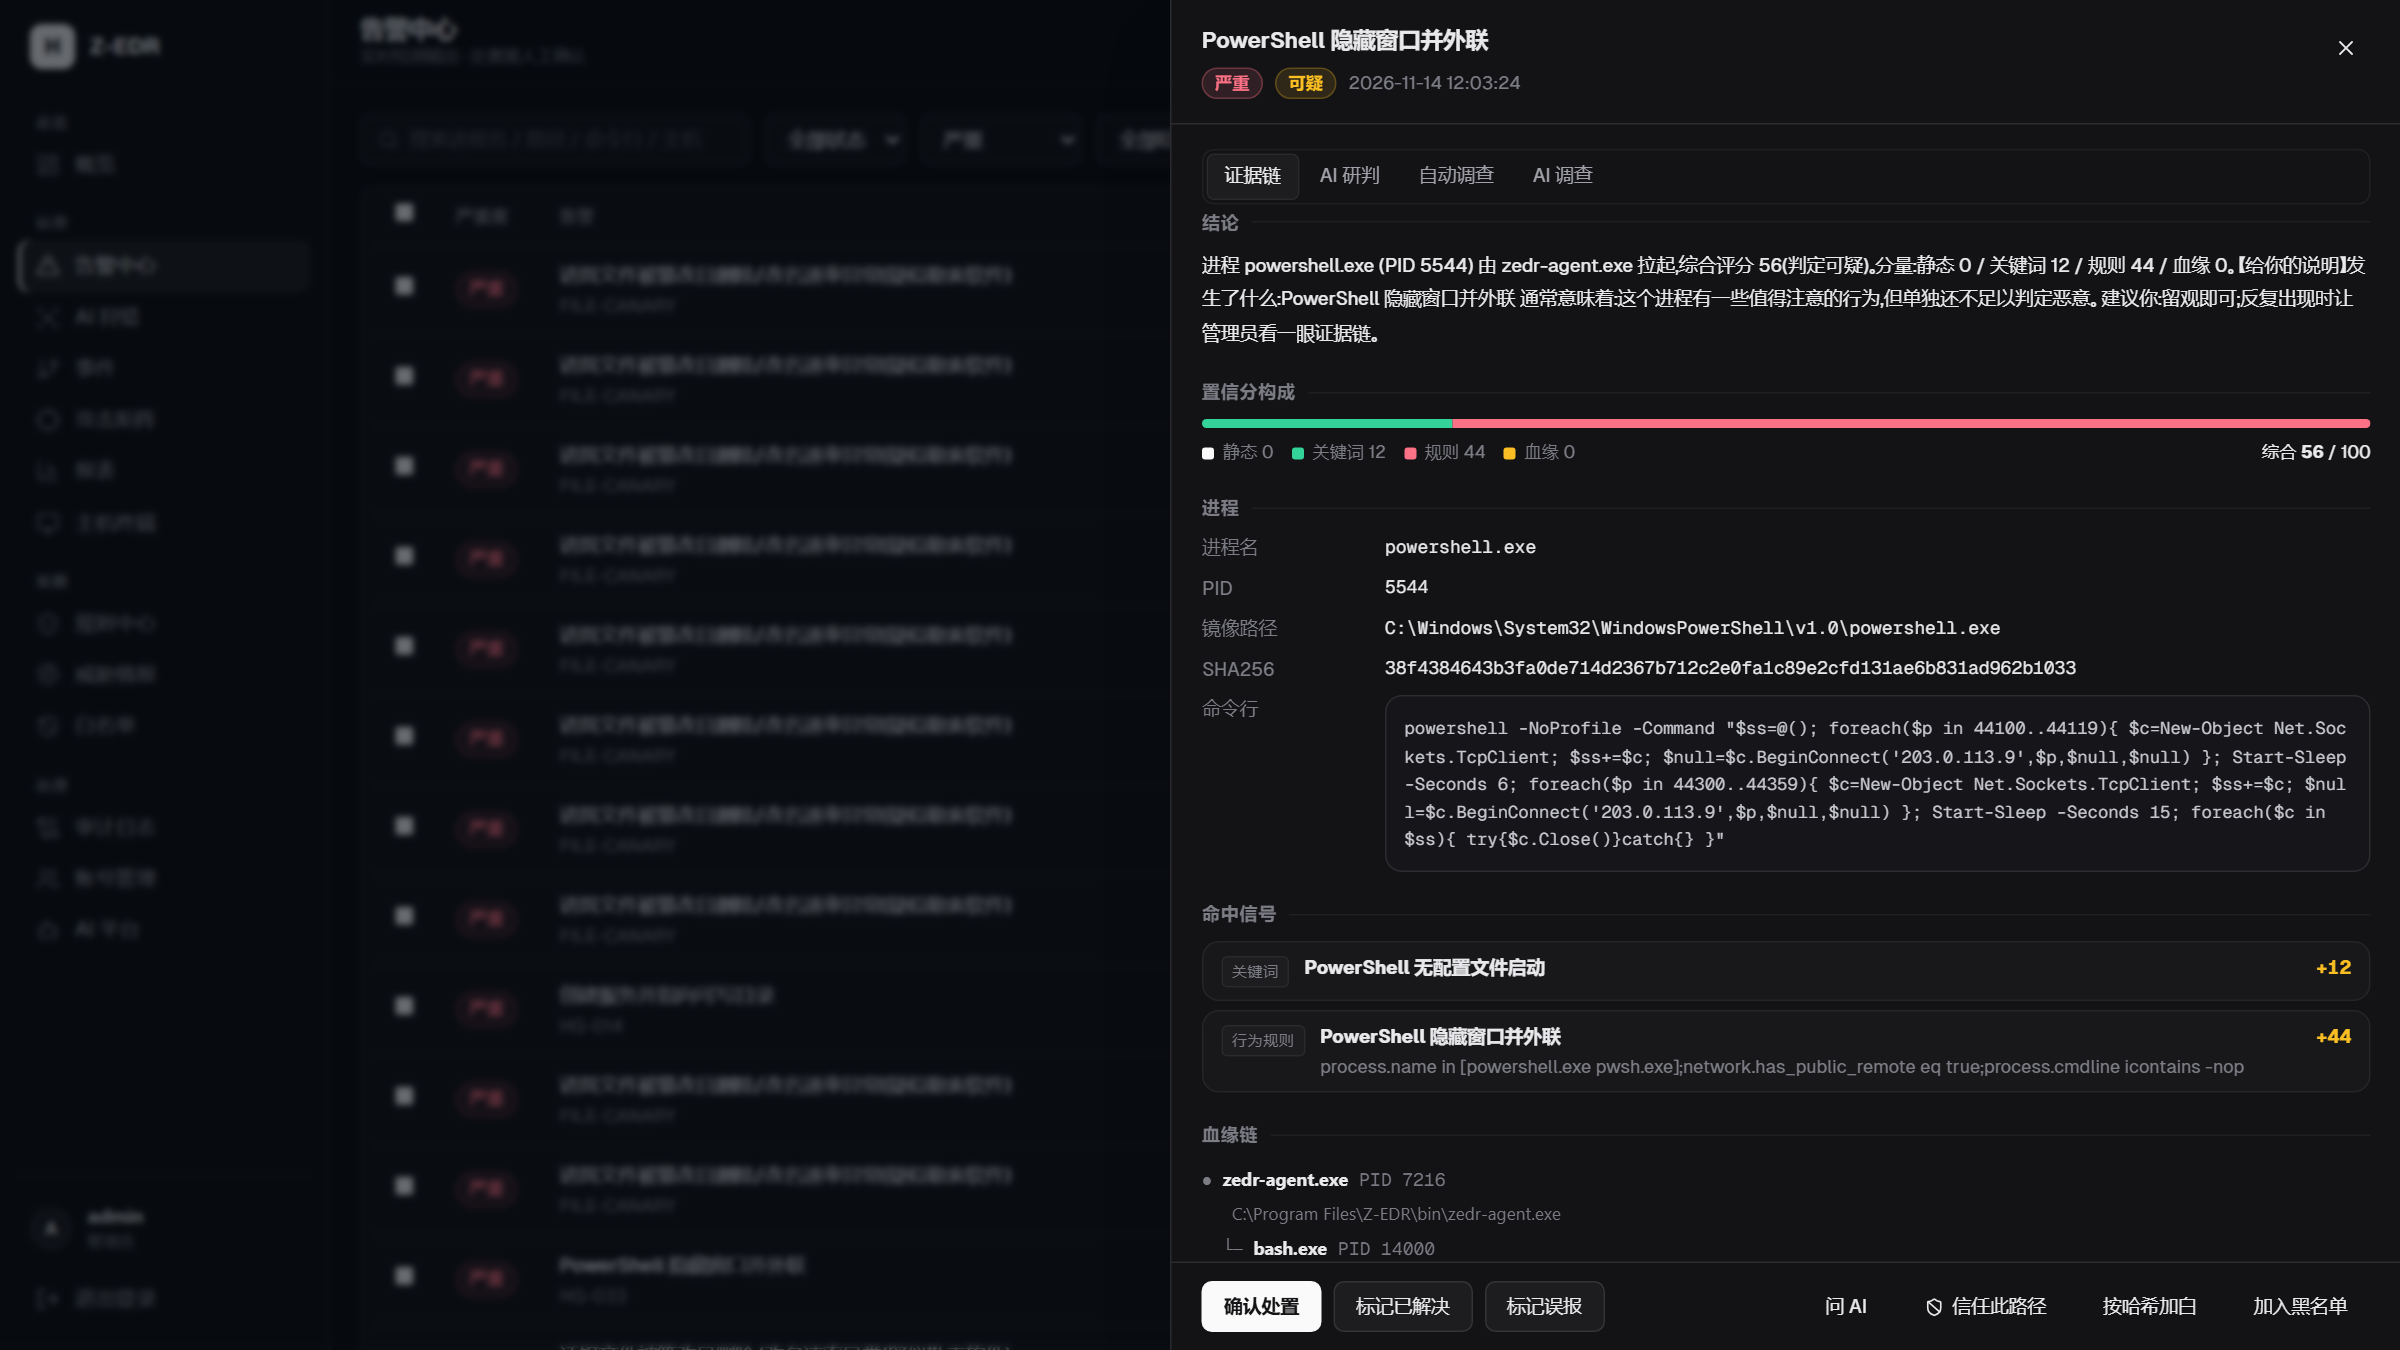
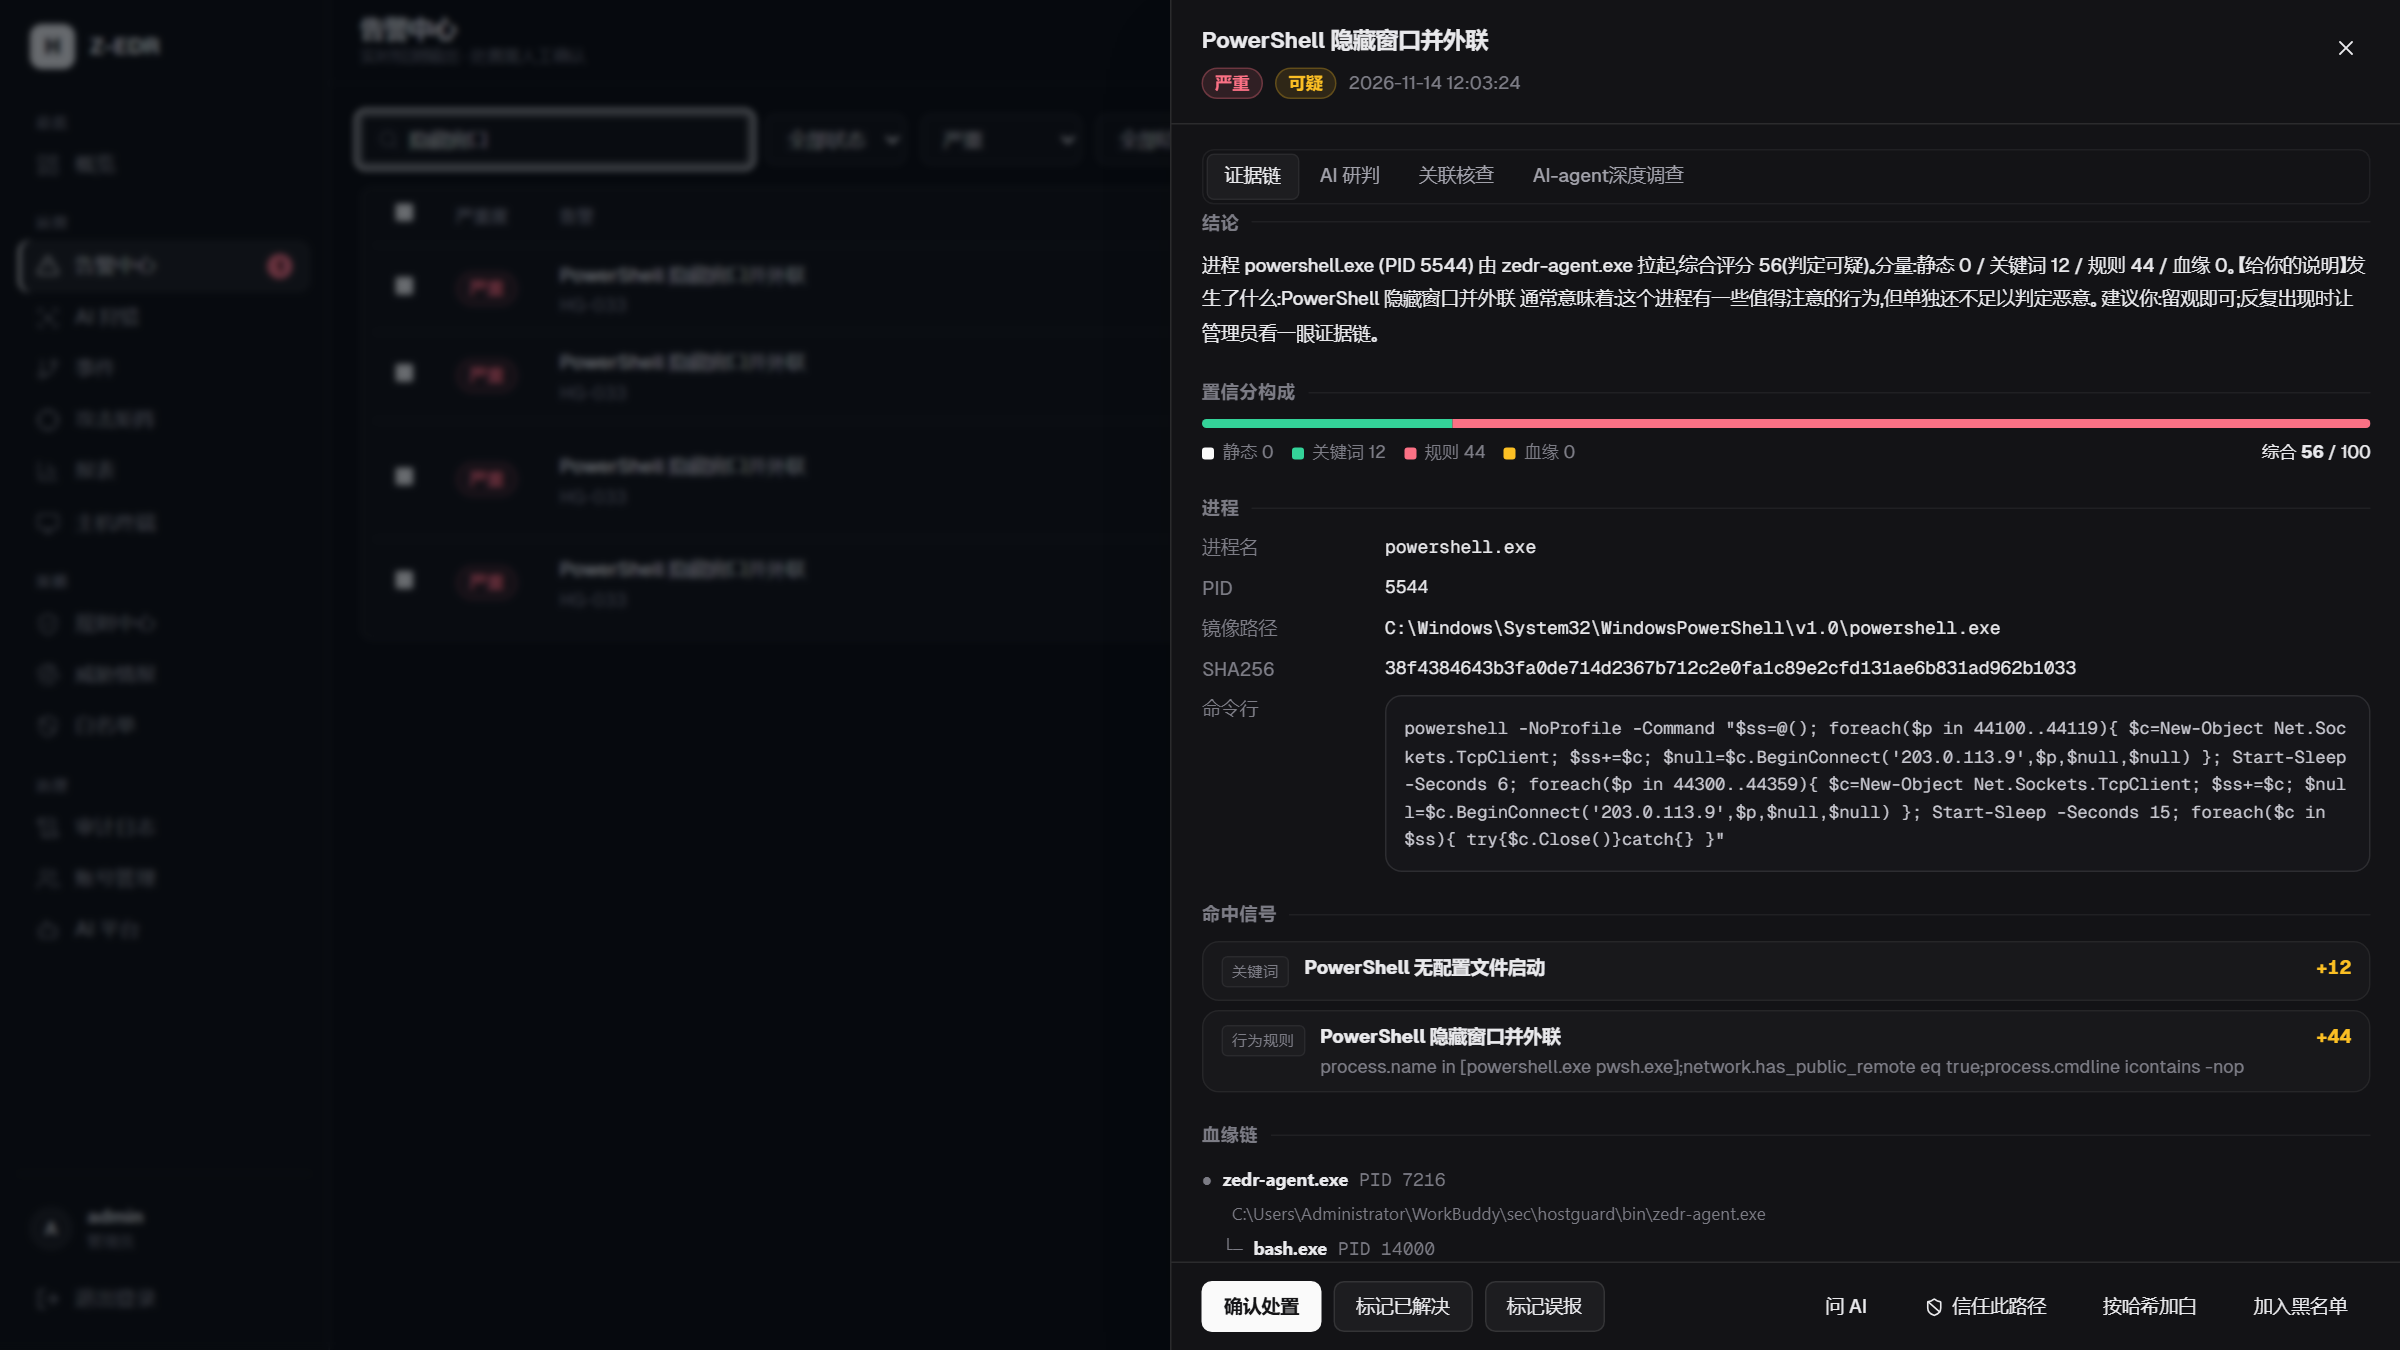
docs(readme): 公开前宣传面 v2——脱敏截图/hero/演示动图/对比节/AGPL 徽章
资产（assets/）：
- 9 张控制台截图全量替换为脱敏版：主机名→WIN-DEMO-01、主机指纹/CPU 型号/
  Ark 端点/Key 后缀→演示值（与脱敏重截会话共享替换对，跨图一致）
- 新增 console-alert-ai.png：AI 研判判定视图（72% 置信、E1/E2 引用、
  HUNT/MONITOR/TERMINATE 建议处置均标需人工确认）
- 新增 hero.png：单板式首屏横幅（盾徽字标 + 定位语 + 五层流水线读数，
  与登录页同母题：44px 仪器网格 + mono）
- 新增 demo-alert-ai.gif（1.5MB）：告警→证据链→AI 研判 7 秒演示动图，
  录制全程 MutationObserver 自动脱敏

README（双语）：
- 首屏嵌 hero.png；徽章补 AGPL-3.0
- 图廊重排：证据链+AI 研判成对置顶，嵌演示动图
- 新增「How Z-EDR compares / 与同类项目的对比」节：与 Wazuh/Falco/
  Velociraptor 的功能事实对比（基于各项目公开文档与源码形态，2026-11，
  不放评分）
- 设计原则节新增「适合谁/不适合谁」
- 接口节死链修复：内部文档指引 → .env.example
- zh-CN 许可证节同步 AGPL（023a31f 只改了英文版）

工具链备注：截图 playwright-core+Edge headless（真机截取，无 AI 生成），
动图 playwright recordVideo + 系统 ffmpeg 裁剪转码，视觉资产 HTML→PNG。

diff --git a/README.md b/README.md
@@ -5,8 +5,13 @@
 [![Go](https://img.shields.io/badge/Go-1.22%2B-00ADD8?logo=go&logoColor=white)](https://go.dev)
 [![Platform](https://img.shields.io/badge/Platform-Windows%2010%20%2F%20Server%202016%2B-0078D6?logo=windows&logoColor=white)](https://www.microsoft.com/windows-server)
 [![Version](https://img.shields.io/badge/version-0.9.14-informational)](#)
+[![License](https://img.shields.io/badge/License-AGPL_3.0--only-blue.svg)](LICENSE)
 
 **English** | [中文](README.zh-CN.md)
+
+<p align="center">
+  <img src="assets/hero.png" alt="Z-EDR — detection-first, user-mode EDR; five-layer detection pipeline readout" width="100%">
+</p>
 
 Z-EDR records process, file-drop, persistence, network and event-log telemetry on
 Windows endpoints, scores it with a five-layer detection pipeline mapped to
@@ -28,15 +33,21 @@ injection, and no inline blocking. Z-EDR is an *EDR* (detect & respond), not an
 
 <p align="center">
   <img src="assets/console-alert-detail.png" alt="Alert evidence chain — score composition, command line, matched signals, lineage" width="49%">
-  <img src="assets/console-attack-matrix.png" alt="ATT&CK matrix — hit counts vs rule coverage" width="49%">
+  <img src="assets/console-alert-ai.png" alt="AI triage verdict — confidence, per-claim evidence citations, recommended actions" width="49%">
 </p>
-<p align="center"><sub>Every alert carries an explainable evidence chain — left · ATT&CK coverage matrix (hits vs. static coverage) — right</sub></p>
+<p align="center"><sub>Evidence chain with score composition — left · AI verdict: every claim cites its evidence id (E1/E2), every action waits for human confirmation — right</sub></p>
 
 <p align="center">
+  <img src="assets/console-attack-matrix.png" alt="ATT&CK matrix — hit counts vs rule coverage" width="49%">
   <img src="assets/console-incidents.png" alt="Incidents — alerts clustered into attack chains with status machine" width="49%">
-  <img src="assets/console-rules.png" alt="Rules center — 44 built-in rules, severity / score / ATT&CK / shadow mode" width="49%">
 </p>
-<p align="center"><sub>Alerts clustered into incident chains with a disposition state machine — left · rules center with shadow mode &amp; one-click promotion — right</sub></p>
+<p align="center"><sub>ATT&CK coverage matrix (hits vs. static coverage) — left · alerts clustered into incident chains with a disposition state machine — right</sub></p>
+
+<p align="center">
+  <img src="assets/console-rules.png" alt="Rules center — 44 built-in rules, severity / score / ATT&CK / shadow mode" width="49%">
+  <img src="assets/console-alerts.png" alt="Alert center — severity filters, scores, disposition" width="49%">
+</p>
+<p align="center"><sub>Rules center with shadow mode &amp; one-click promotion — left · alert center with severity / verdict / status filters — right</sub></p>
 
 <p align="center">
   <img src="assets/console-hosts.png" alt="Host fleet — online state, CPU, memory, pending alerts, heartbeat" width="49%">
@@ -51,15 +62,15 @@ injection, and no inline blocking. Z-EDR is an *EDR* (detect & respond), not an
 <p align="center"><sub>Host detail: services / tasks / autoruns / live files / recon / baseline / accounts / changes — left · AI platform: one provider, per-task slots, budget & cache hot-reload — right</sub></p>
 
 <p align="center">
-  <img src="assets/console-alerts.png" alt="Alert center — severity filters, scores, disposition" width="49%">
   <img src="assets/console-hunt.png" alt="AI hunting — natural language to a safe, reviewable DSL" width="49%">
+  <img src="assets/console-login.png" alt="Login — split screen with the five-layer pipeline story" width="49%">
 </p>
-<p align="center"><sub>Alert center with severity / verdict / status filters — left · natural-language hunting compiled to a safe DSL (the model never sees SQL) — right</sub></p>
+<p align="center"><sub>Natural-language hunting compiled to a safe DSL (the model never sees SQL) — left · console entry, doubling as a five-layer pipeline tour — right</sub></p>
 
 <p align="center">
-  <img src="assets/console-login.png" alt="Login — split screen with the five-layer pipeline story" width="75%">
+  <img src="assets/demo-alert-ai.gif" alt="From evidence chain to AI verdict — citations, confidence, recommended actions" width="62%">
 </p>
-<p align="center"><sub>Console entry: the login page doubles as a tour of the five-layer detection pipeline</sub></p>
+<p align="center"><sub>One alert, end to end: open the evidence chain, request an AI verdict — every claim cites its evidence, every action waits for a human</sub></p>
 
 ## Highlights
 
@@ -102,6 +113,12 @@ injection, and no inline blocking. Z-EDR is an *EDR* (detect & respond), not an
 
 ## Design principles
 
+**Who Z-EDR is for:** Windows-heavy fleets and desktops, self-hosted and homelab
+setups, regulated environments that must avoid kernel drivers, and teams that
+want every AI judgment tied to inspectable evidence. **Not for:** prevention-first
+(EPP) needs, kernel-grade tamper protection, or Linux-only estates — the Linux
+agent is experimental.
+
 1. **Detection, not prevention.** No inline blocking or filesystem filters —
    Z-EDR works after the fact: record, detect, investigate, respond.
 2. **User mode, low intrusion.** Only documented user-mode APIs. Nothing is
@@ -112,6 +129,21 @@ injection, and no inline blocking. Z-EDR is an *EDR* (detect & respond), not an
    short-lived processes, and there is no tamper protection. Measured detection
    results are published as-is, including misses — see [Testing](#testing) and
    the known-limitations list.
+
+## How Z-EDR compares
+
+Statements below describe each project's public documentation and source at the
+time of writing (2026-11); corrections welcome.
+
+| | Z-EDR | Wazuh | Falco | Velociraptor |
+|---|---|---|---|---|
+| **Focus** | Windows-first EDR: detect, investigate, respond | Cross-platform SIEM / HIDS platform | Cloud-native runtime security for Linux | Endpoint visibility & DFIR |
+| **Deploy shape** | one server binary (embedded UI, SQLite) + one agent | manager + indexer + dashboards stack | agent + rules, CNCF ecosystem | server + client, VQL-driven |
+| **Collection model** | user-mode APIs only — no driver, no hook | agent (log & state collection) | kernel module or eBPF on syscalls | agent (osquery-like artifacts) |
+| **Real-time behavioral detection** | 5-layer pipeline + attack-chain + ransom/netwatch/event-log families | rule-based log analysis + FIM | syscall rule engine | monitoring via VQL artifacts (DFIR-first) |
+| **AI-assisted investigation** | grounded triage, NL hunting, agentic investigation, incident narratives | — | — | — |
+| **Response** | terminate / quarantine, off by default, human-approved, audited | active-response scripts (configurable automation) | alerts (forwarding via Falcosidekick) | remote shell / artifact collection |
+| **Best when** | you need per-process evidence and explainable AI on Windows, without kernel drivers | you need a full SIEM stack with compliance content | you need Linux/container runtime alerting | you need deep fleet queries and forensic collection |
 
 ## Architecture
 
@@ -216,7 +248,8 @@ Response actions are audited, RBAC-gated, and never automatic.
   the AI assistant in the console shares the same toolset.
 - **Public**: `/health`, `/ready`, `/metrics` (Prometheus text format).
 
-The full endpoint table and RBAC matrix live in the repository's internal docs.
+Every `HG_*` switch — including the safety defaults above — is documented with
+comments in [`.env.example`](.env.example).
 
 ## Testing
 
